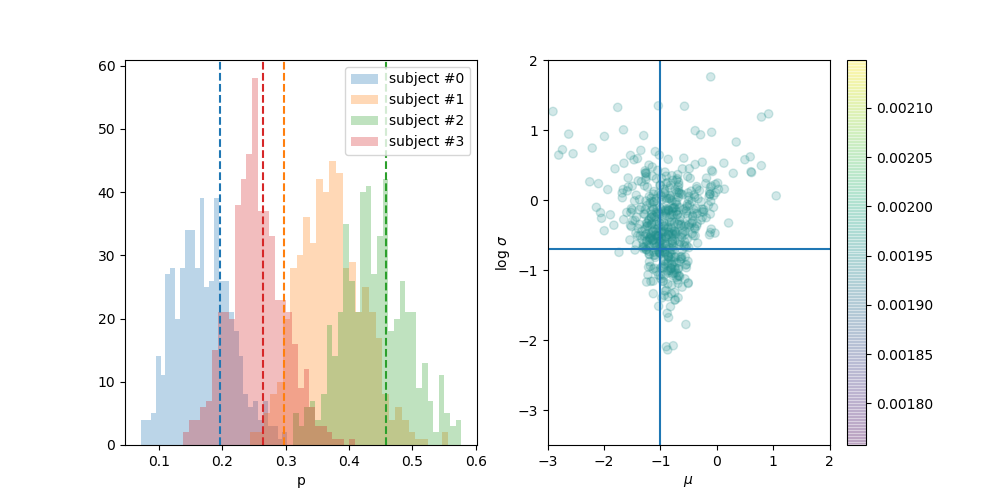
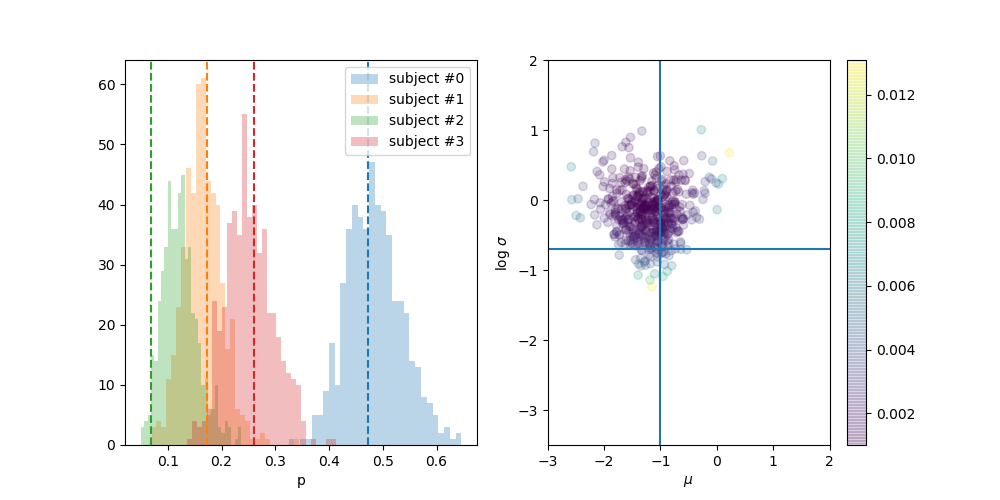
fix bug in the hyper (rm randomization of hyparam)

diff --git a/gabc/gabcpmc.py b/gabc/gabcpmc.py
@@ -340,7 +340,6 @@ class ABCpmc(object):
                 self.pkernel_init(self.dev_x,self.dev_Ysm,np.float32(self.epsilon),np.int32(self.seed),self.dev_dist,self.dev_ntry,block=(int(self.nthread),1,1), grid=(int(self._npart),1),shared=sharedsize)
                 
                 cuda.memcpy_dtoh(self.x, self.dev_x)
-#                print("x(old)=>",self.x)
 
                 #update covariance
                 self.update_invcov()
@@ -355,11 +354,14 @@ class ABCpmc(object):
 
                 cuda.memcpy_dtoh(self.x, self.dev_xx)
                 cuda.memcpy_dtoh(self.z, self.dev_z)
-                
+#                print("x(old)=>",np.sum(self.x))
                 #update covariance
                 self.update_invcov()                
+#                print("invcov=",self.invcov)
+
                 #update weight
                 self.update_weight()
+                print("weight",self.w)
                 #swap
                 self.dev_x, self.dev_xx = self.dev_xx, self.dev_x
                 self.dev_w, self.dev_ww = self.dev_ww, self.dev_w
@@ -424,6 +426,7 @@ class ABCpmc(object):
         #inverse covariance matrix
         if self.onedim:
             cov = self.wide*np.var(self.x)
+            self.cov = cov
             self.invcov = np.array(1.0/cov).astype(np.float32)
             self.Qmat = np.array([np.sqrt(cov)]).astype(np.float32)
         else:
@@ -434,8 +437,9 @@ class ABCpmc(object):
             else:
                 self.xw=np.copy(self.x).reshape(self._npart,self._nparam)
                 cov = self.wide*np.cov(self.xw.transpose(),bias=True)
+            self.cov = cov 
             self.invcov = (np.linalg.inv(cov).flatten()).astype(np.float32)
-
+            
             # Q matrix for multivariate Gaussian prior sampler
             [eigenvalues, eigenvectors] = np.linalg.eig(cov)
             l = np.matrix(np.diag(np.sqrt(np.abs(eigenvalues))))
@@ -452,6 +456,7 @@ class ABCpmc(object):
         nthread=min(self._npart,self.nthread_use_max)
         self.wkernel(self.dev_ww, self.dev_w, self.dev_xx, self.dev_x, self.dev_invcov, block=(int(nthread),1,1), grid=(int(self._npart),1),shared=sharedsize)
         cuda.memcpy_dtoh(self.w, self.dev_ww)
+#        print("w=",self.w)
         if self.hyper:
             if self._nhparam == 1:
                 pri=self.fhprior(self.x)
@@ -462,6 +467,7 @@ class ABCpmc(object):
                 pri=self.fprior(self.x)
             else:
                 pri=self.fprior(self.xw)
+#        print("pri=",pri)
 
         self.w=pri/self.w
         self.w=self.w/np.sum(self.w)

diff --git a/gabcpmc_hibin.py b/gabcpmc_hibin.py
@@ -40,7 +40,7 @@ if __name__ == "__main__":
     abc.nparam=1
     abc.nsubject = nsub
     abc.nsample = nsample
-#    abc.Ecrit=0.0 #resampling off
+    abc.Ecrit=0.0 #resampling off
 
     abc.model=\
     """
@@ -86,6 +86,11 @@ if __name__ == "__main__":
             h0=normfunc.pdf(x[:,0],loc=mumu,scale=np.sqrt(ximu) )
             sigma=np.exp(x[:,1])
             h1=(betas**alphas)/gammaform(alphas)*((1.0/sigma)**(alphas+1.0))*np.exp(-betas/sigma)
+            mask=(h1!=h1)
+            h1[mask]=np.nanmedian(h1)
+#            if np.sum(h1) != np.sum(h1):
+#                print(x[mask,:])
+#                sys.exit("OUT!")
             return h0*h1
         return f
     abc.fhprior = fhprior()#
@@ -111,7 +116,7 @@ if __name__ == "__main__":
     
     abc.wide=2.0
     #set prior parameters
-    abc.epsilon_list = np.array([1.0,0.5,0.3,0.1,0.07,0.06,0.05,0.03,0.02])
+    abc.epsilon_list = np.array([1.0,0.5,0.3,0.1,0.07,0.06,0.05,0.03,0.02,0.01])
     #initial run of abc pmc
     abc.check_preparation()
     abc.run()
@@ -125,7 +130,6 @@ if __name__ == "__main__":
     for eps in abc.epsilon_list[1:]:
         abc.run()
         abc.check()
-
     tend = time.time()
     print(tend-tstart,"sec")
 

diff --git a/include/habcpmc.h b/include/habcpmc.h
@@ -75,37 +75,25 @@ extern "C"{
 	isel=aliasgen(Ki, Li, Ui, npart,&s);
 	for (int m=0; m<NHPARAM; m++){
 	  rn[m] = curand_normal(&s);
+	  /* rn[m]=0.0; */
 	}
 	
 	for (int m=0; m<NHPARAM; m++){
 	  hparam[m]=xprev[NHPARAM*isel+m];
 
 	  for (int k=0; k<NHPARAM; k++){
-	    hparam[m] += Qmat[m*NHPARAM+k]*rn[k];
-	    
-	  }
-	  
+	    hparam[m] += Qmat[m*NHPARAM+k]*rn[k];	    
+	  }	  
 	  cache[NDATA*NSAMPLE+m] = hparam[m];
 	}
       }
       __syncthreads();
 
-      /* ===================================================== */
-      /* sampling from a hyper prior, getting the hyperparameter (x NHPARAM elements) */
-      if(ithread == 0){
-	hyperprior(hparam, &s);
-	for (int m=0; m<NHPARAM; m++){
-	  cache[NDATA*NSAMPLE+m] = hparam[m];
-	}
-      }
-      __syncthreads();
-      /* ===================================================== */
 
       /* loading hyperparameters for each thread s*/
       for (int m=0; m<NHPARAM; m++){
 	hparam[m] = cache[NDATA*NSAMPLE+m];
       }
-
       
       /* sampling from a prior, getting NSUBJECT sets of the model parameters (x NHPARAM elements) */
       for (int k=0; k<int(float(NSUBJECT-1)/float(nthread))+1; k++){
